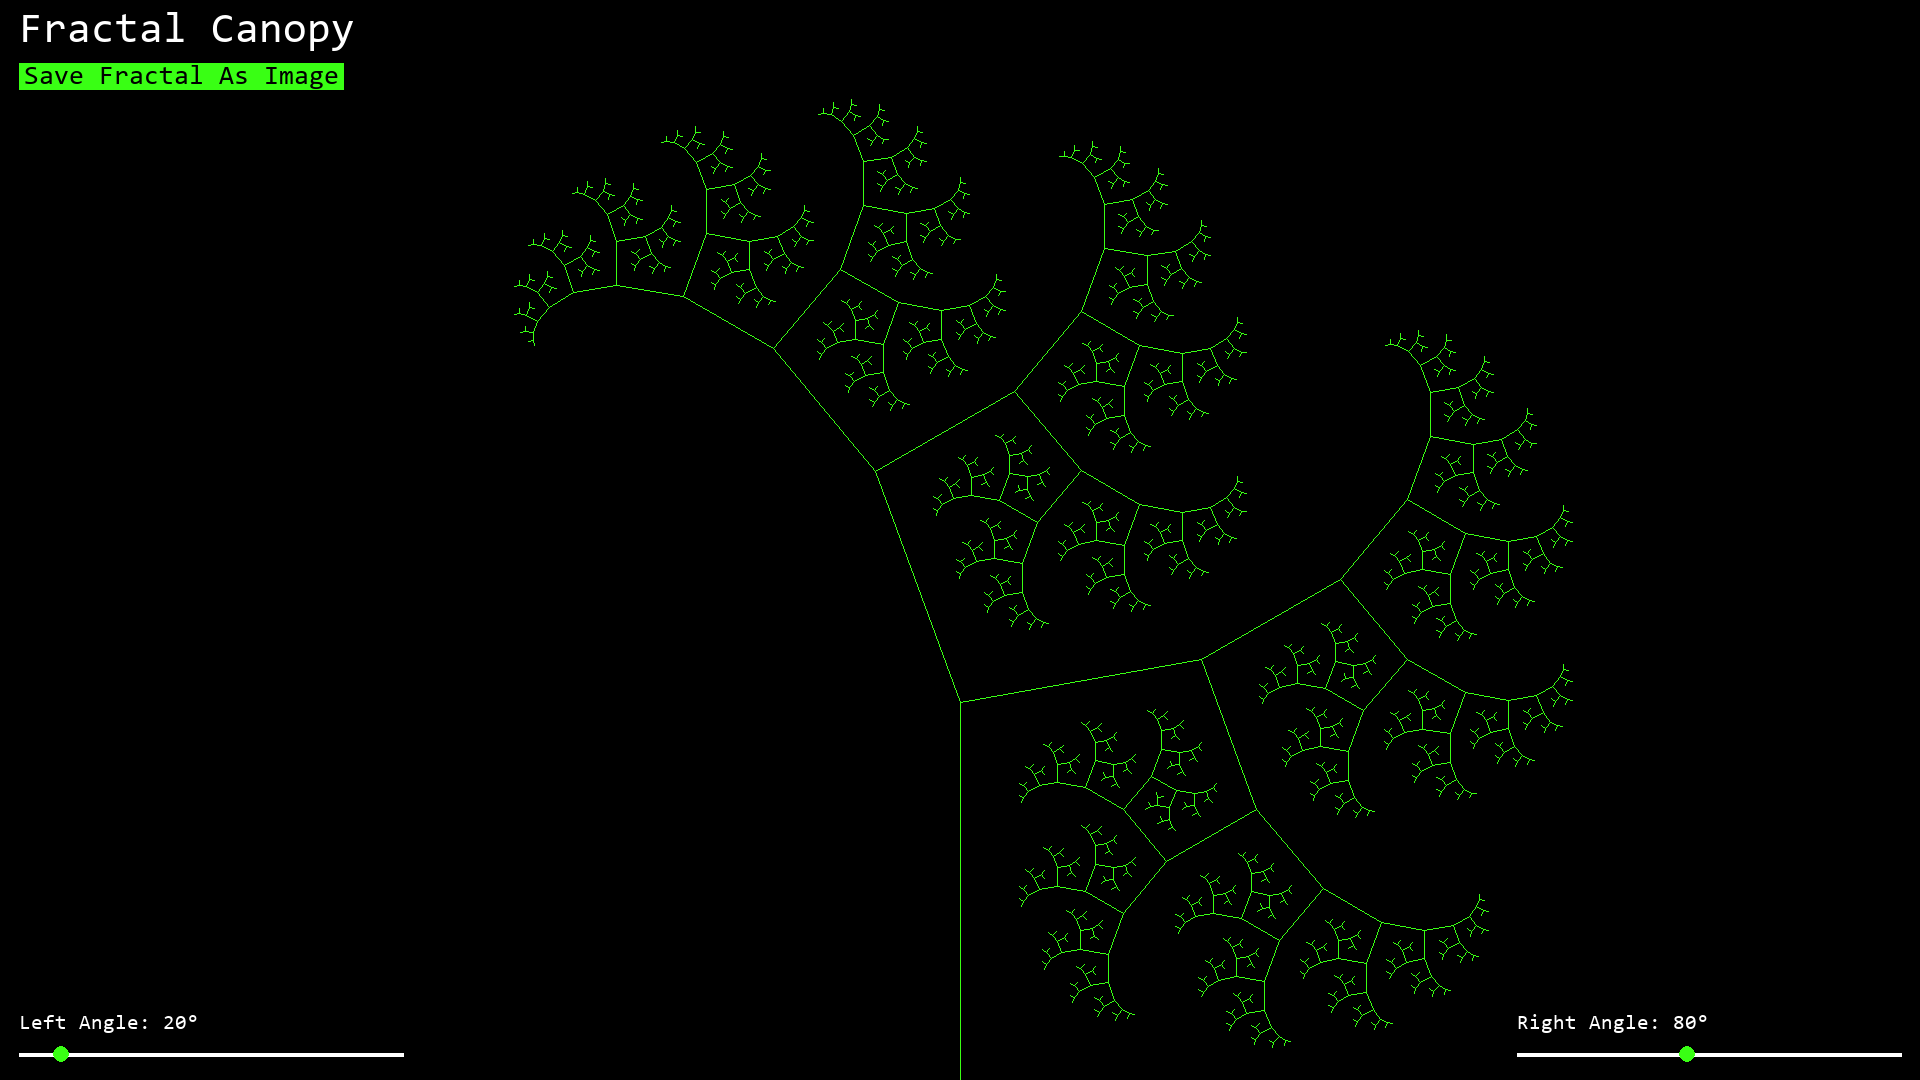
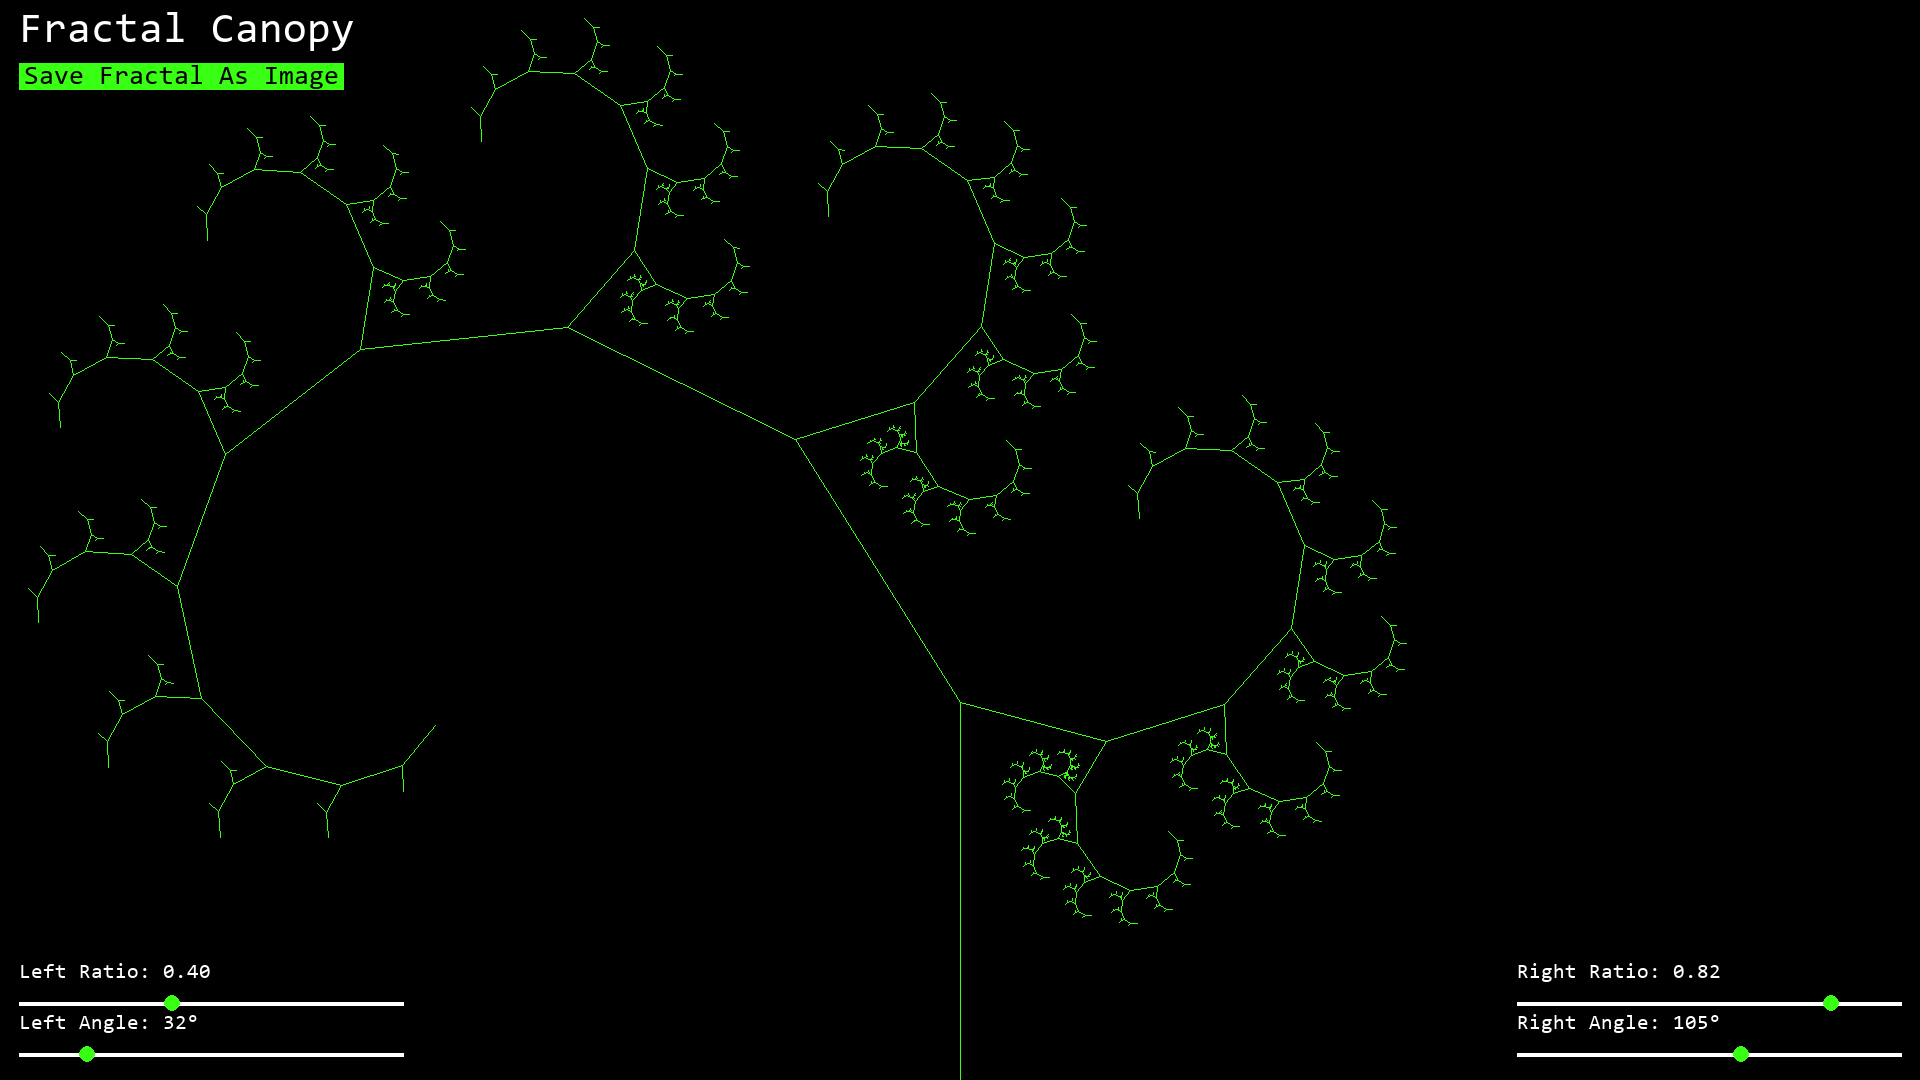
edit/made dual ratios for asymmetric fractal trees

diff --git a/modules/fractals.py b/modules/fractals.py
@@ -4,14 +4,21 @@ import math
 from modules.vectorManip import vectorRotation, vectorScaling
         
 class Slider:
-    def __init__(self, rect, font, label):
+    def __init__(self, rect, font, label, sliderType):
         self.rect = rect
         self.font = font
         self.label = label
+        self.sliderType = sliderType
 
-        self.min_value = 0
-        self.max_value = 180
-        self.value = 0
+        if sliderType == "ratio":
+            self.value = 0.65
+            self.min_value = 0.0
+            self.max_value = 1.0
+        else:
+            self.value = 0
+            self.min_value = 0
+            self.max_value = 180
+
         self.handle_radius = 8
         self.bar_color = (255, 255, 255)
         self.handle_color = (57, 255, 20)
@@ -19,21 +26,26 @@ class Slider:
 
     def handle_event(self, event):
         if event.type == pygame.MOUSEBUTTONDOWN:
-            if self._handle_hitbox().collidepoint(event.pos):
+            if self.handle_hitbox().collidepoint(event.pos):
                 self.active = True
         elif event.type == pygame.MOUSEBUTTONUP:
             self.active = False
         elif event.type == pygame.MOUSEMOTION:
             if self.active:
                 pos = max(self.rect.left, min(event.pos[0], self.rect.right))
-
                 percent = (pos - self.rect.left) / self.rect.w
-                self.value = round(self.min_value + percent * (self.max_value - self.min_value))
 
-    def _handle_hitbox(self):
+                if self.sliderType == "ratio":
+                    self.value = round(self.min_value + percent * (self.max_value - self.min_value), 2)
+                else:
+                    self.value = round(self.min_value + percent * (self.max_value - self.min_value))
+
+    def handle_hitbox(self):
         x = self.rect.left + (self.value - self.min_value) / (self.max_value - self.min_value) * self.rect.w
         y = self.rect.centery
-        return pygame.Rect(x - self.handle_radius, y - self.handle_radius, self.handle_radius * 2, self.handle_radius * 2)
+        sliderRect = pygame.Rect(x - self.handle_radius, y - self.handle_radius, self.handle_radius * 2, self.handle_radius * 2)
+
+        return sliderRect
 
     def draw(self, screen):
 
@@ -42,15 +54,19 @@ class Slider:
         x = self.rect.left + (self.value - self.min_value) / (self.max_value - self.min_value) * self.rect.w
         pygame.draw.circle(screen, self.handle_color, (int(x), self.rect.centery), self.handle_radius)
 
-        label_text = f"{self.label}: {self.value}°"
-        rendered = self.font.render(label_text, True, (255, 255, 255))
-        screen.blit(rendered, (self.rect.x, self.rect.y - self.font.get_height() - 5))
+        if self.sliderType == "ratio":
+            label_text = f"{self.label}: {self.value:.2f}"
+        else:
+            label_text = f"{self.label}: {self.value}°"
+
+        renderedSlider = self.font.render(label_text, True, (255, 255, 255))
+        screen.blit(renderedSlider, (self.rect.x, self.rect.y - self.font.get_height() - 5))
 
     def get_value(self):
         return self.value
 
 class FractalTree:
-    def __init__(self, screen_size, start, end, max_gen , angle1, angle2, ratio):
+    def __init__(self, screen_size, start, end, max_gen , angle1, angle2, left_ratio, right_ratio):
         self.screen_size = screen_size
         self.start = start
         self.end = end
@@ -59,7 +75,8 @@ class FractalTree:
         self.sec_angle = angle2
         self.angles = [math.radians(self.frst_angle), -math.radians(self.sec_angle)]
 
-        self.ratio = ratio
+        self.left_ratio = left_ratio
+        self.right_ratio = right_ratio
         
         self.base_color = (57, 255, 20)
         self.animating = False
@@ -77,10 +94,15 @@ class FractalTree:
 
         self.reset()
 
+    def update_ratios(self, left_ratio, right_ratio):
+        self.left_ratio = left_ratio
+        self.right_ratio = right_ratio
+        self.reset()
+
     def draw(self, screen):
         pygame.draw.line(screen, self.base_color, self.start, self.end, self.branch_thickness)
         direction = [self.end[0] - self.start[0], self.end[1] - self.start[1]]
-        self._draw_recursive(screen, self.end, direction, 1, self.current_gen)
+        self.draw_recursive(screen, self.end, direction, 1, self.current_gen)
 
     def animate_step(self):
         if self.animating:
@@ -91,17 +113,18 @@ class FractalTree:
     def is_animating(self):
         return self.animating
 
-    def _draw_recursive(self, screen, start, direction, n, N):
-
+    def draw_recursive(self, screen, start, direction, n, N):
         if n > N:
             return
     
-        scaled = vectorScaling(direction, self.ratio)
-        for angle in self.angles:
+        ratios = [self.left_ratio, self.right_ratio]
+
+        for i, angle in enumerate(self.angles):
+            scaled = vectorScaling(direction, ratios[i])
             rotated = vectorRotation(scaled, angle)
             new_end = [start[0] + rotated[0], start[1] + rotated[1]]
             pygame.draw.line(screen, self.base_color, start, new_end, self.branch_thickness)
-            self._draw_recursive(screen, new_end, rotated, n + 1, N)
+            self.draw_recursive(screen, new_end, rotated, n + 1, N)
 
 class Button:
     def __init__(self, rect, font, text, on_click = None):

diff --git a/main.py b/main.py
@@ -39,16 +39,34 @@ def main():
 
     export_y = title_height + (y_padding * 2)
     slider_y = screen_height - slider_height - y_padding
+    ratio_slider_y = slider_y - slider_height - (2 * y_padding)
 
     frstAngle_slider = Slider(
         pygame.Rect(right_slider_x, slider_y, txtBox_width * 4, slider_height),
         slider_font,
         "Right Angle",
+        "angle"
     )
+
     secAngle_slider = Slider(
         pygame.Rect(x_padding, slider_y, txtBox_width * 4, slider_height),
         slider_font,
         "Left Angle",
+        "angle"
+    )
+
+    leftRatio_Slider = Slider(
+        pygame.Rect(x_padding, ratio_slider_y, txtBox_width * 4, slider_height),
+        slider_font,
+        "Left Ratio",
+        "ratio"
+    )
+
+    rightRatio_Slider = Slider(
+        pygame.Rect(right_slider_x, ratio_slider_y, txtBox_width * 4, slider_height),
+        slider_font,
+        "Right Ratio",
+        "ratio"
     )
 
     save_button = Button(
@@ -59,10 +77,10 @@ def main():
     )
 
     # Fractal setup
-    ratio = 0.65
+    #ratio = 0.65
     x = screen_width / 2
     start = [x, screen_height]
-    end = [x, (screen_height) * ratio]
+    end = [x, (screen_height) * 0.65]
 
     fractal = FractalTree(
         (screen_width, screen_height),
@@ -71,7 +89,8 @@ def main():
         9, #number of generations
         frstAngle_slider.get_value(),
         secAngle_slider.get_value(),
-        ratio
+        leftRatio_Slider.get_value(),
+        rightRatio_Slider.get_value()
     )
 
     run = True
@@ -85,6 +104,8 @@ def main():
             if not fractal.is_animating():
                 frstAngle_slider.handle_event(event)
                 secAngle_slider.handle_event(event)
+                leftRatio_Slider.handle_event(event)
+                rightRatio_Slider.handle_event(event)
                 save_button.handle_event(event)
 
         screen.fill("black")
@@ -95,15 +116,20 @@ def main():
 
         new_angle1 = frstAngle_slider.get_value()
         new_angle2 = secAngle_slider.get_value()
+        new_left_ratio = leftRatio_Slider.get_value()
+        new_right_ratio = rightRatio_Slider.get_value()
 
         if (new_angle1 != fractal.frst_angle or new_angle2 != fractal.sec_angle) and not fractal.is_animating():
             fractal.update_angles(new_angle1, new_angle2)
 
-        if not fractal.is_animating():
-            save_button.draw(screen)
+        if (new_left_ratio != fractal.left_ratio or new_right_ratio != fractal.right_ratio) and not fractal.is_animating():
+            fractal.update_ratios(new_left_ratio, new_right_ratio)
 
+        save_button.draw(screen)
         frstAngle_slider.draw(screen)
         secAngle_slider.draw(screen)
+        leftRatio_Slider.draw(screen)
+        rightRatio_Slider.draw(screen)
         fractal.draw(screen)
         fractal.animate_step()
 
